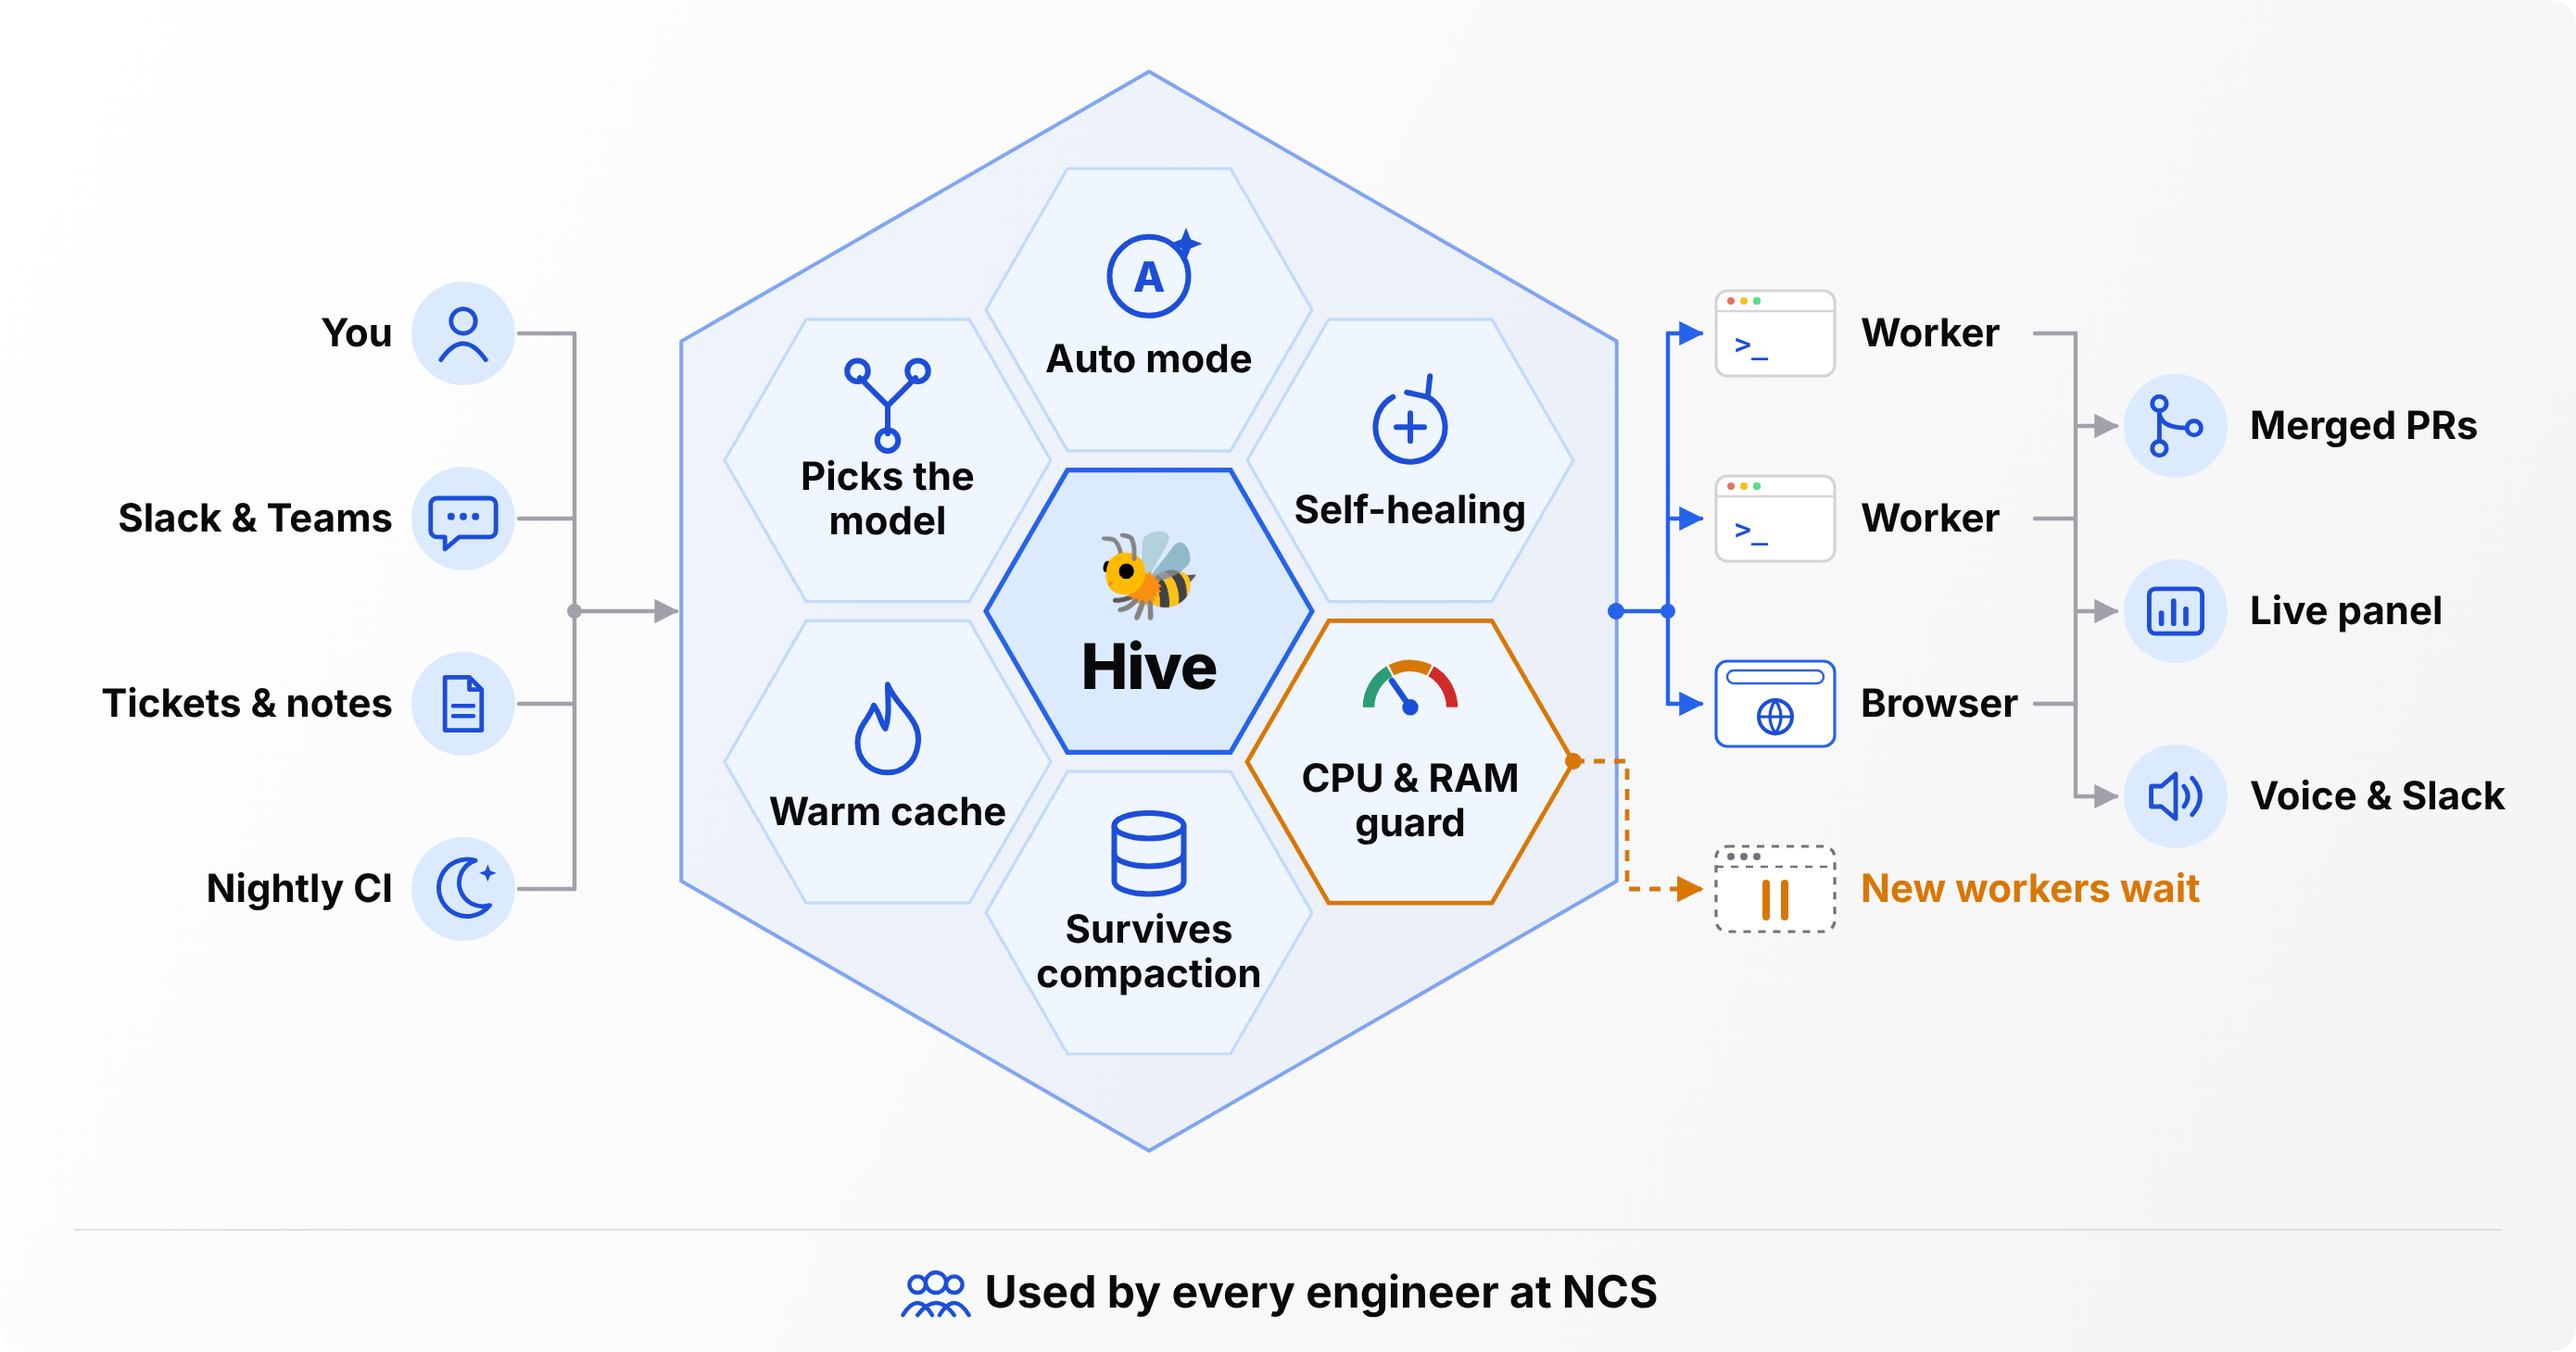
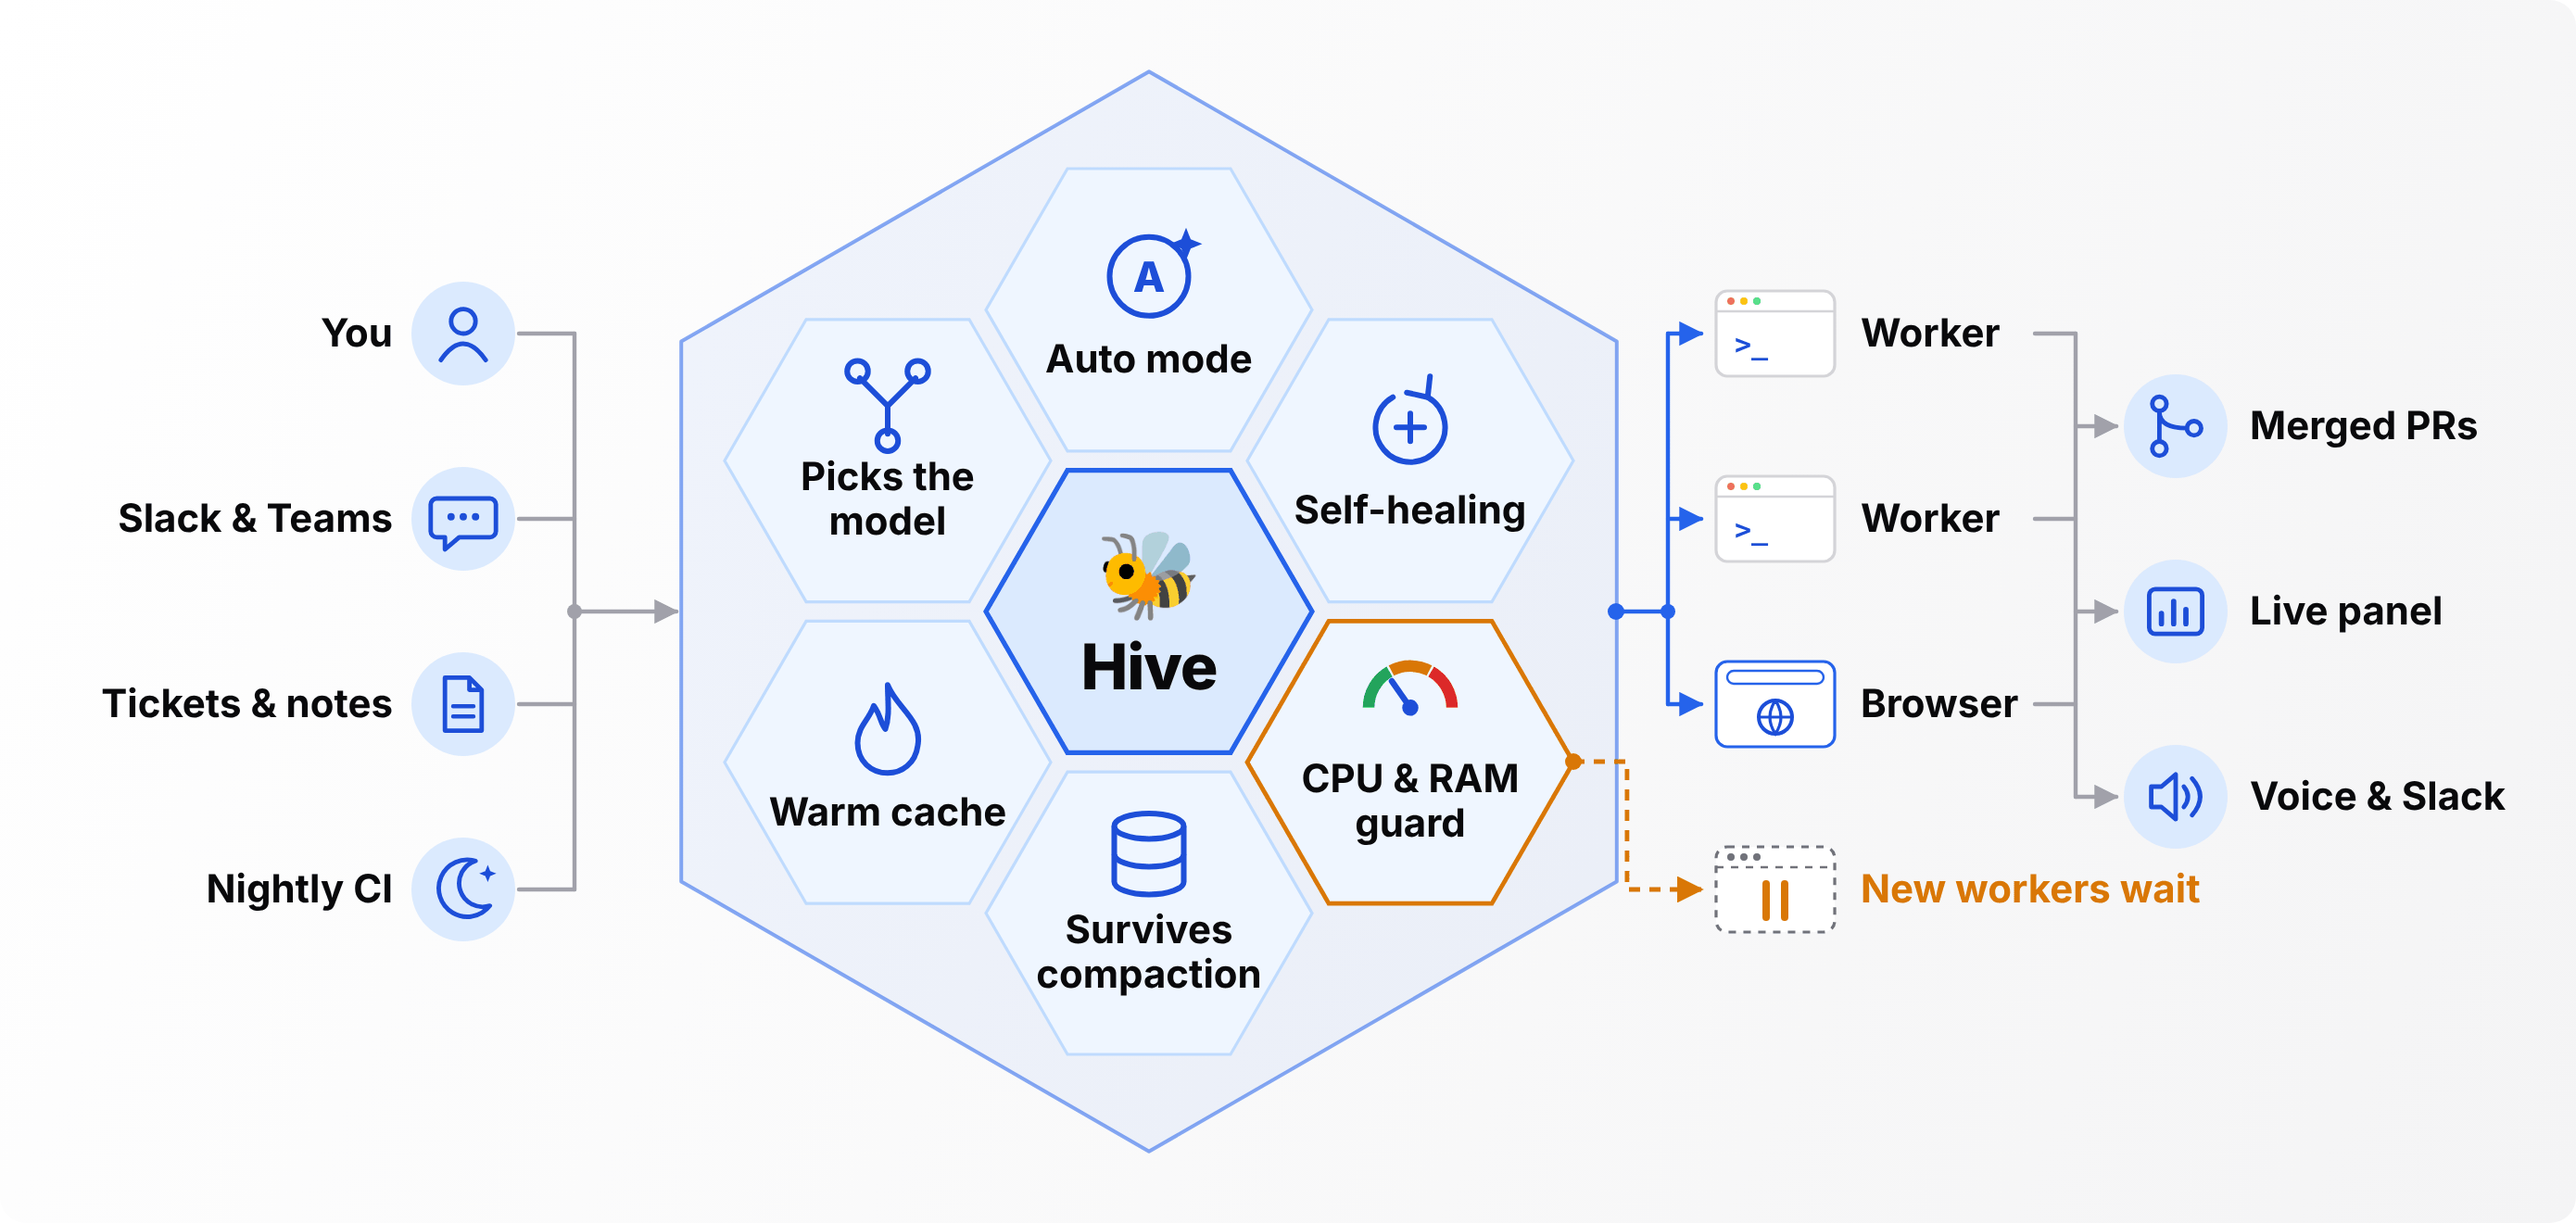
Remove Hive adoption claims for now
Claude-Session: https://claude.ai/code/session_01BAgEGmXzzXPF7n4ZXVdB4B

diff --git a/README.md b/README.md
@@ -21,12 +21,12 @@ I'm a software engineer at **NCS**, specialising in agentic systems: the harness
 
 ## 🐝 Hive
 
-My multi-agent orchestration system for Claude Code, now used across the company. Hand it a pile of work and it runs a team of agents through it, without melting your machine.
+A multi-agent orchestration system for Claude Code that I built. Hand it a pile of work and it runs a team of agents through it, without melting your machine.
 
 <picture>
   <source media="(prefers-color-scheme: dark)" srcset="./assets/hive-architecture.png" />
   <source media="(prefers-color-scheme: light)" srcset="./assets/hive-architecture-light.png" />
-  <img src="./assets/hive-architecture.png" width="100%" alt="Hive: work from you, Slack and Teams, tickets and nightly CI flows into Hive, which picks the model, runs in auto mode, guards CPU and RAM, heals itself, survives compaction and keeps the prompt cache warm. It runs Claude Code workers and a browser agent, makes new workers wait when CPU or RAM is tight, and ships merged PRs, a live panel and voice and Slack updates. Used by every engineer at NCS." />
+  <img src="./assets/hive-architecture.png" width="100%" alt="Hive: work from you, Slack and Teams, tickets and nightly CI flows into Hive, which picks the model, runs in auto mode, guards CPU and RAM, heals itself, survives compaction and keeps the prompt cache warm. It runs Claude Code workers and a browser agent, makes new workers wait when CPU or RAM is tight, and ships merged PRs, a live panel and voice and Slack updates." />
 </picture>
 
 ## Also built
